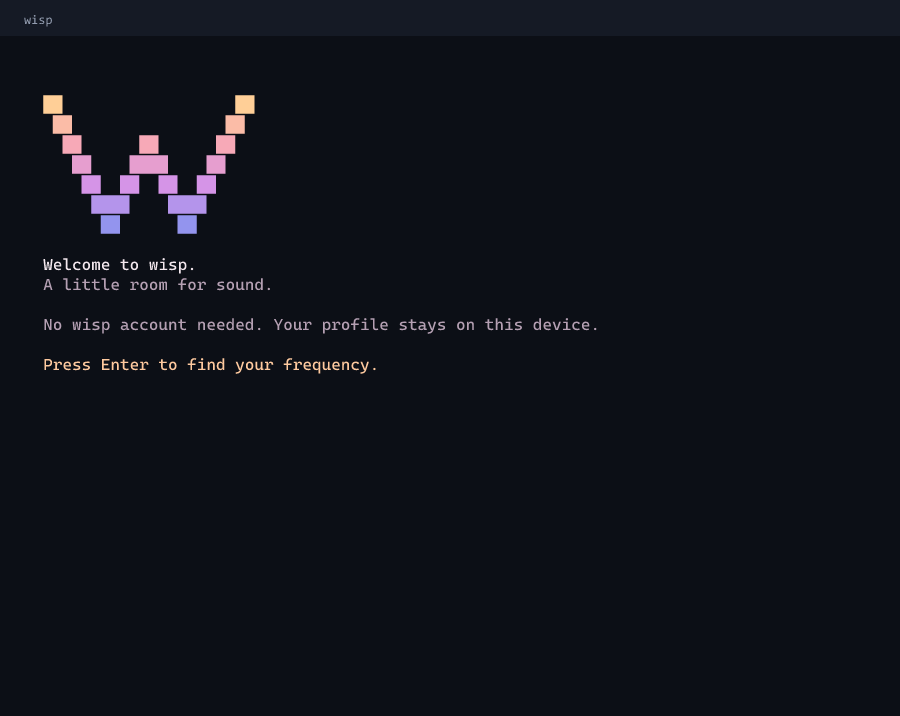
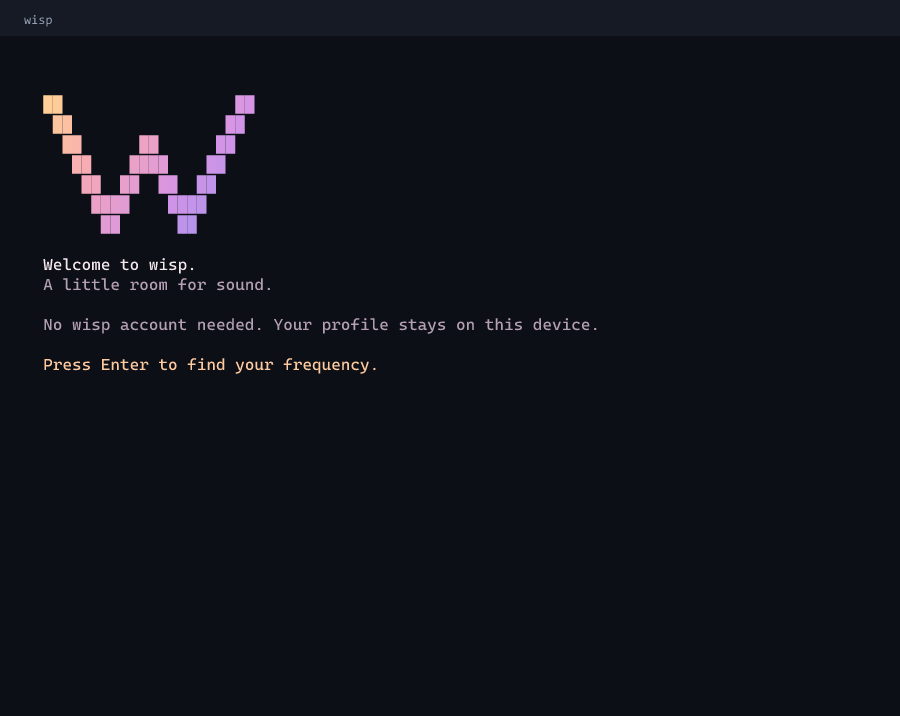
feat(settings): add butterfly toggle and refine setup visuals

Changed region(s): [[0.0622, 0.2151, 0.1556, 0.338], [0.2178, 0.1229, 0.28, 0.2458], [0.1867, 0.2765, 0.2178, 0.338]]

diff --git a/internal/app/navigation.go b/internal/app/navigation.go
@@ -19,6 +19,8 @@ type browserState struct {
 
 var tabs = []string{"Library", "Playlists", "Likes", "Recent"}
 
+const settingsCount = 7
+
 func (m *Model) switchTab(n int) {
 	if m.tab == 0 {
 		m.libraryView = browserState{append([]string(nil), m.results...), m.title, m.message, m.warnings, m.index, m.offset, m.pageOffset}
@@ -69,7 +71,7 @@ func (m *Model) move(delta int) {
 		return
 	}
 	if m.stage == "settings" {
-		m.choice = (m.choice + delta%6 + 6) % 6
+		m.choice = (m.choice + delta%settingsCount + settingsCount) % settingsCount
 		return
 	}
 	if m.stage == "theme" || m.stage == "sources" {
@@ -202,7 +204,7 @@ func (m *Model) playlistBody(t Theme, height int) []string {
 	}
 	return rows
 }
-func (m *Model) settingsBody(t Theme) []string {
+func (m *Model) settingsBody(t Theme, height int) []string {
 	rows := []string{style(t.Text).Bold(true).Render(m.tr("Make room for your sound.")), ""}
 	entries := []string{m.tr("Theme") + "   " + m.tr(FindTheme(m.State.Profile.Theme).Name)}
 	for i, n := range source.Names {
@@ -216,8 +218,15 @@ func (m *Model) settingsBody(t Theme) []string {
 	if m.State.Profile.Language == "ru" {
 		languageName = "Русский"
 	}
-	entries = append(entries, m.tr("Language")+"   "+languageName, m.tr("Done"))
-	for i, s := range entries {
+	butterflyMark := "[x]"
+	if m.State.Profile.HideButterfly {
+		butterflyMark = "[ ]"
+	}
+	entries = append(entries, m.tr("Language")+"   "+languageName, butterflyMark+" "+m.tr("Butterfly"), m.tr("Done"))
+	capacity := max(1, height-2)
+	start := max(0, m.choice-capacity+1)
+	for i := start; i < min(len(entries), start+capacity); i++ {
+		s := entries[i]
 		p := "  "
 		c := t.Muted
 		if i == m.choice {
@@ -226,9 +235,12 @@ func (m *Model) settingsBody(t Theme) []string {
 		}
 		rows = append(rows, style(c).Render(p+s))
 	}
-	return append(rows, "", style(t.Muted).Render(m.tr("Spotify: playlist metadata; audio matched on YouTube.")), style(t.Muted).Render(m.tr("Local music is always enabled.")))
+	if len(rows)+2 <= height {
+		rows = append(rows, "", style(t.Muted).Render(m.tr("Local music is always enabled.")))
+	}
+	return rows
 }
-func (m *Model) settingsKey(key string) {
+func (m *Model) settingsKey(key string) tea.Cmd {
 	switch key {
 	case "up":
 		m.move(-1)
@@ -242,6 +254,11 @@ func (m *Model) settingsKey(key string) {
 		case 4:
 			m.beginLanguage()
 		case 5:
+			m.State.Profile.HideButterfly = !m.State.Profile.HideButterfly
+			m.butterflyGeneration++
+			m.persist()
+			return m.butterflyTick()
+		case 6:
 			m.stage = "ready"
 		default:
 			n := source.Names[m.choice-1]
@@ -249,6 +266,7 @@ func (m *Model) settingsKey(key string) {
 			m.persist()
 		}
 	}
+	return nil
 }
 
 func (m *Model) header(t Theme, width int) string { return m.headerLine(t, width, true) }

diff --git a/internal/app/settings_test.go b/internal/app/settings_test.go
@@ -1,0 +1,82 @@
+package app
+
+import (
+	"strings"
+	"testing"
+
+	tea "charm.land/bubbletea/v2"
+	"github.com/charmbracelet/x/ansi"
+	"wisp/internal/library"
+	"wisp/internal/player"
+)
+
+func TestButterflySettingPersistsAndInvalidatesAnimation(t *testing.T) {
+	m := completionFixture(t)
+	m.ReducedMotion = false
+	m.dispatch("/settings")
+	m.choice = 5
+	oldGeneration := m.butterflyGeneration
+	press(m, tea.KeyEnter)
+	if !m.State.Profile.HideButterfly || m.butterflyTick() != nil {
+		t.Fatal("disabled butterfly still schedules animation")
+	}
+	saved, err := library.Load(m.Path)
+	if err != nil || !saved.Profile.HideButterfly {
+		t.Fatal("butterfly preference not saved", err)
+	}
+	reloaded := New(saved, m.Path, player.New())
+	if !reloaded.State.Profile.HideButterfly || reloaded.butterflyTick() != nil {
+		t.Fatal("butterfly preference lost on restart")
+	}
+	m.stage = "ready"
+	for _, glyph := range ansi.Strip(m.View().Content) {
+		if glyph >= 0x2800 && glyph <= 0x28ff {
+			t.Fatal("hidden butterfly still rendered")
+		}
+	}
+	m.stage = "settings"
+	_, command := m.Update(tea.KeyPressMsg{Code: tea.KeySpace})
+	if m.State.Profile.HideButterfly || command == nil {
+		t.Fatal("butterfly animation did not restart")
+	}
+	m.stage = "ready"
+	frame := m.butterflyFrame
+	_, command = m.Update(butterflyPulse{Generation: oldGeneration})
+	if command != nil || m.butterflyFrame != frame {
+		t.Fatal("stale animation chain restarted")
+	}
+}
+
+func TestSourceSelectionHasNoTechnicalSubtitles(t *testing.T) {
+	for _, language := range []string{"en", "ru"} {
+		view := ansi.Strip(PreviewLanguage("sources", "aurora", false, -1, language))
+		for _, label := range []string{"SoundCloud", "Spotify", "YouTube Music"} {
+			if !strings.Contains(view, label) {
+				t.Fatal("source label missing", label)
+			}
+		}
+		for _, text := range []string{"token", "токен", "audio", "аудио", "metadata"} {
+			if strings.Contains(view, text) {
+				t.Fatal("technical subtitle remains", text)
+			}
+		}
+	}
+}
+
+func TestSettingsKeepsSelectedRowVisibleInSmallTerminal(t *testing.T) {
+	m := completionFixture(t)
+	m.dispatch("/settings")
+	_, _ = m.Update(tea.WindowSizeMsg{Width: 44, Height: 20})
+	m.choice = 5
+	if !strings.Contains(ansi.Strip(m.View().Content), "› [x] Butterfly") {
+		t.Fatal("butterfly setting is clipped")
+	}
+	press(m, tea.KeyDown)
+	if !strings.Contains(ansi.Strip(m.View().Content), "› Done") {
+		t.Fatal("Done is clipped")
+	}
+	press(m, tea.KeyEnter)
+	if m.stage != "ready" {
+		t.Fatal("could not leave settings")
+	}
+}

diff --git a/internal/app/view.go b/internal/app/view.go
@@ -72,7 +72,7 @@ func (m *Model) View() tea.View {
 		body = m.languageBody(t)
 	}
 	if m.stage == "settings" {
-		body = m.settingsBody(t)
+		body = m.settingsBody(t, contentHeight)
 	}
 	if m.stage == "theme" {
 		body = []string{style(t.Text).Bold(true).Render(m.tr("Choose the color of your quiet.")), ""}
@@ -99,7 +99,7 @@ func (m *Model) View() tea.View {
 				prefix = "› "
 				color = t.Accent
 			}
-			body = append(body, style(color).Render(prefix+check+" "+source.Labels[i]+"   "+m.tr(m.Sources.Status(n))))
+			body = append(body, style(color).Render(prefix+check+" "+source.Labels[i]))
 		}
 		body = append(body, "")
 		color := t.Muted
@@ -254,13 +254,13 @@ func (m *Model) wizard(t Theme, width int) []string {
 			if m.choice == i {
 				color = t.Accent
 			}
-			lines = append(lines, style(color).Render(prefix+check+" "+source.Labels[i]), style(t.Muted).Render("      "+m.tr(m.Sources.Status(n))), "")
+			lines = append(lines, style(color).Render(prefix+check+" "+source.Labels[i]), "")
 		}
 		color := t.Muted
 		if m.choice == len(source.Names) {
 			color = t.Accent
 		}
-		lines = append(lines, style(color).Render(m.tr("› Continue")), "", style(t.Muted).Render(m.tr("Local files are always available. Selection does not sign you in.")))
+		lines = append(lines, style(color).Render(m.tr("› Continue")), "", style(t.Muted).Render(m.tr("Local music is always enabled.")))
 	case "syncing":
 		phase := "preparing your library…"
 		if m.frame > 4 {

diff --git a/internal/app/butterfly.go b/internal/app/butterfly.go
@@ -17,17 +17,18 @@ const (
 	butterflyFrameInterval = time.Second / 30
 )
 
-type butterflyPulse time.Time
+type butterflyPulse struct{ Generation uint64 }
 
 func (m *Model) butterflyTick() tea.Cmd {
-	if m.ReducedMotion {
+	if m.ReducedMotion || m.State.Profile.HideButterfly {
 		return nil
 	}
 	delay := butterflyFrameInterval
 	if m.stage != "ready" {
 		delay = 250 * time.Millisecond
 	}
-	return tea.Tick(delay, func(t time.Time) tea.Msg { return butterflyPulse(t) })
+	generation := m.butterflyGeneration
+	return tea.Tick(delay, func(time.Time) tea.Msg { return butterflyPulse{Generation: generation} })
 }
 
 type butterflyPose struct {
@@ -123,7 +124,7 @@ func butterflyFreeArea(lines []string, width, border int) (butterflyArea, bool) 
 	return best, bestScore > 0
 }
 func (m *Model) drawButterfly(lines []string, t Theme, width, border int) {
-	if m.stage != "ready" || border >= len(lines) || border < butterflyHeight+2 {
+	if m.State.Profile.HideButterfly || m.stage != "ready" || border >= len(lines) || border < butterflyHeight+2 {
 		return
 	}
 	area, ok := butterflyFreeArea(lines, width, border)

diff --git a/internal/app/model.go b/internal/app/model.go
@@ -34,6 +34,7 @@ type taskResult struct {
 type Model struct {
 	languageReturn               string
 	butterflyFrame               int
+	butterflyGeneration          uint64
 	lyricsClient                 *lyrics.Client
 	seekBusy                     bool
 	pendingSeek                  int
@@ -138,6 +139,9 @@ func (m *Model) task(kind string, fn func(context.Context) taskResult) tea.Cmd {
 func (m *Model) Update(msg tea.Msg) (tea.Model, tea.Cmd) {
 	switch v := msg.(type) {
 	case butterflyPulse:
+		if v.Generation != m.butterflyGeneration {
+			return m, nil
+		}
 		if m.stage == "ready" {
 			m.butterflyFrame++
 		}
@@ -389,8 +393,7 @@ func (m *Model) Update(msg tea.Msg) (tea.Model, tea.Cmd) {
 			return m, m.languageKey(key)
 		}
 		if m.stage == "settings" {
-			m.settingsKey(key)
-			return m, nil
+			return m, m.settingsKey(key)
 		}
 		if m.stage == "welcome" {
 			if key == "enter" {

diff --git a/internal/app/gradient_test.go b/internal/app/gradient_test.go
@@ -53,3 +53,16 @@ func TestGradientPreservesTextAndUsesSeveralColors(t *testing.T) {
 		t.Fatal("not a gradient", len(seen))
 	}
 }
+
+func TestCompactLogoGradientsVaryAcrossBothArms(t *testing.T) {
+	for _, id := range []string{"aurora", "afterglow"} {
+		rows := strings.Split(LogoView(FindTheme(id), false), "\n")
+		colors := regexp.MustCompile(`\x1b\[38;2;[0-9;]+m`).FindAllString(rows[0], -1)
+		if len(colors) < 2 || colors[0] == colors[len(colors)-1] {
+			t.Fatal("logo still uses horizontal color bands", id)
+		}
+		if ansi.Strip(strings.Join(rows, "\n")) != strings.Join(Logo, "\n") {
+			t.Fatal("gradient changed compact logo geometry", id)
+		}
+	}
+}

diff --git a/internal/app/theme.go b/internal/app/theme.go
@@ -42,6 +42,20 @@ func LogoView(t Theme, plain bool) string {
 	rows := make([]string, len(Logo))
 	for i, row := range Logo {
 		f := float64(i) / float64(len(Logo)-1)
+		if t.ID == "aurora" || t.ID == "afterglow" {
+			var pixels strings.Builder
+			glyphs := []rune(row)
+			for x, glyph := range glyphs {
+				if glyph == ' ' {
+					pixels.WriteRune(glyph)
+					continue
+				}
+				u := .65*float64(x)/float64(len(glyphs)-1) + .35*f
+				pixels.WriteString(style(logoColor(themeStops(t), u, 1)).Render(string(glyph)))
+			}
+			rows[i] = pixels.String()
+			continue
+		}
 		c := logoColor(themeStops(t), f, 1)
 		rows[i] = style(c).Render(row)
 	}

diff --git a/internal/library/library.go b/internal/library/library.go
@@ -28,11 +28,12 @@ type Track struct {
 }
 
 type Profile struct {
-	Language string          `json:"language,omitempty"`
-	Username string          `json:"username"`
-	Theme    string          `json:"theme"`
-	Sources  map[string]bool `json:"sources"`
-	Complete bool            `json:"complete"`
+	Language      string          `json:"language,omitempty"`
+	Username      string          `json:"username"`
+	Theme         string          `json:"theme"`
+	Sources       map[string]bool `json:"sources"`
+	Complete      bool            `json:"complete"`
+	HideButterfly bool            `json:"hide_butterfly,omitempty"`
 }
 
 type State struct {

diff --git a/cmd/wisp/main.go b/cmd/wisp/main.go
@@ -12,7 +12,7 @@ import (
 	"wisp/internal/terminal"
 )
 
-var version = "0.4.9-dev"
+var version = "0.4.10-dev"
 
 func main() {
 	if err := run(); err != nil {

diff --git a/docs/DESIGN.md b/docs/DESIGN.md
@@ -14,13 +14,16 @@ toolbar. English and Russian use the same layout and command syntax.
 | Afterglow | Peach, rose, lavender | `#FFCF97` → `#F7A9B7` → `#D594E7` → `#9394EF` |
 
 Gradients are rendered per visible cell, preserving Unicode display width.
+The compact Aurora and Afterglow W blend color along both axes, rather than
+assigning one color to each horizontal row.
 Progress color follows the entire bar's coordinate system, so a short fill does
 not compress the whole palette. The W uses solid pixels without a shadow halo.
 Neutral text and quiet borders are intentional; not every glyph needs a gradient.
 
 The butterfly uses a compact braille sprite with changing wing poses and headings.
-Its flight alternates with resting on the playback frame. Reduced motion keeps
-decoration quiet; ASCII mode replaces terminal-dependent art.
+Its flight alternates with resting on the playback frame. `/settings` can hide
+the butterfly entirely and saves that preference across restarts. Reduced motion
+keeps decoration quiet; ASCII mode replaces terminal-dependent art.
 
 Use a Unicode monospace font. Keep input behavior predictable, avoid command
 palette popovers, and provide commands for terminal-dependent shortcuts.

diff --git a/README.md b/README.md
@@ -68,7 +68,7 @@ fonts and color support can change its appearance.
 - **Your listening space.** Library, Playlists, Likes, and Recent share one interface. Start a track and the following results become its queue.
 - **Keyboard and mouse.** Browse with the wheel, pause with Enter, seek with the arrows, and adjust volume with `+` and `-`.
 - **Lyrics that keep time.** Follow the current line, seek without losing your place, and load a local `.lrc` when a service has no match.
-- **Made for dark terminals.** Five themes, a gradient W, restrained accents, and an animated butterfly. ASCII and reduced-motion modes are available.
+- **Made for dark terminals.** Five themes, a gradient W, restrained accents, and an animated butterfly you can disable in `/settings`. ASCII and reduced-motion modes are available.
 - **English and Russian.** Choose a language during setup or change it later with `/language`.
 
 ## How it works
